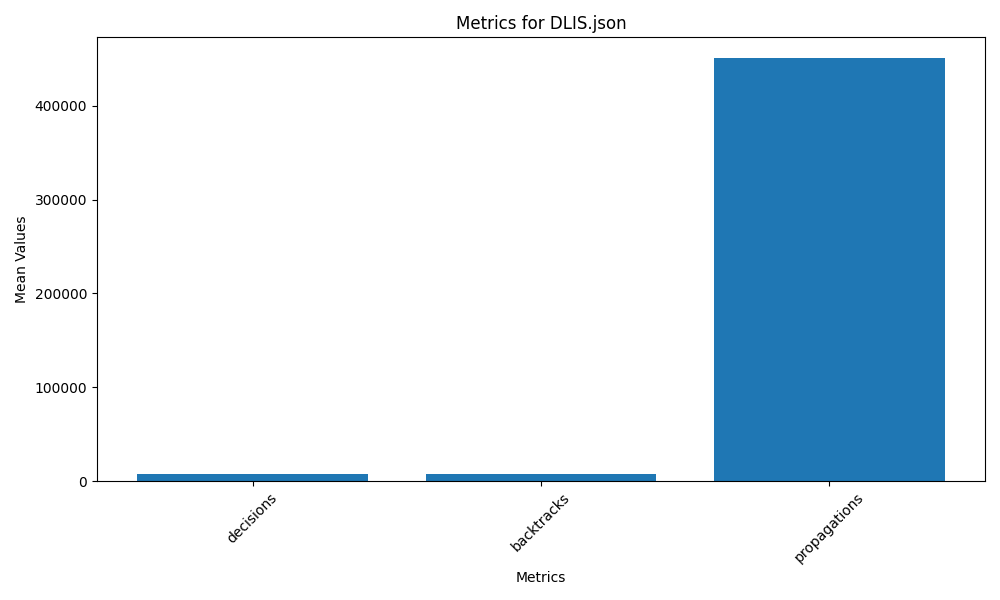
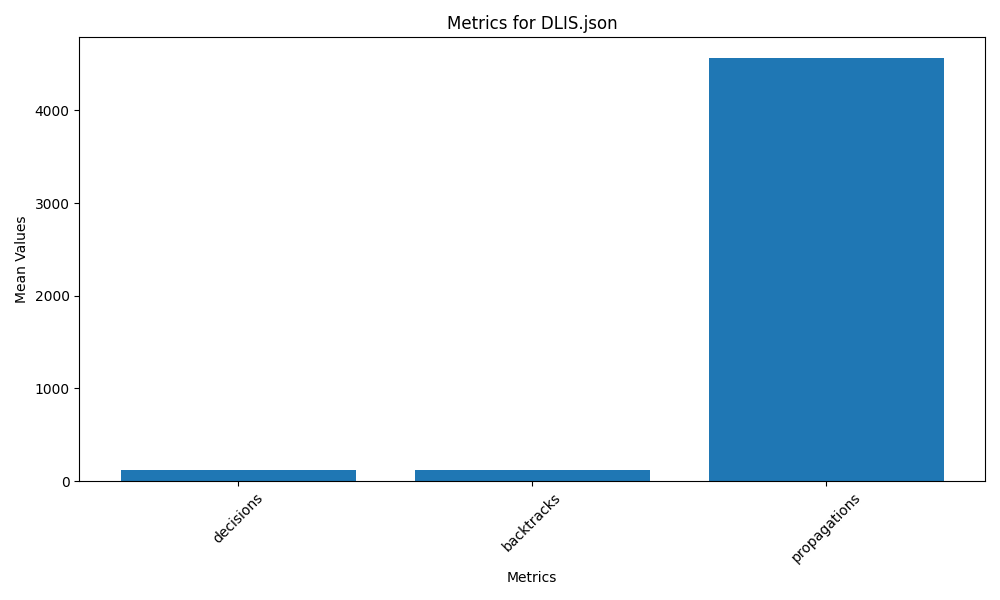
fixed plottign script not aggregating multiple files

diff --git a/results/plot_metrics.py b/results/plot_metrics.py
@@ -33,9 +33,7 @@ def aggregate_metrics(results: List[Dict[str, Any]]) -> Dict[str, float]:
     aggregated = {
         "decisions": [],
         "backtracks": [],
-        # "conflicts": [],
-        "propagations": [],
-        # "unit_clauses_resolved": []
+        "propagations": []
     }
 
     for result in results:
@@ -45,6 +43,23 @@ def aggregate_metrics(results: List[Dict[str, Any]]) -> Dict[str, float]:
 
     mean_metrics = {key: np.mean(values) for key, values in aggregated.items()}
     return mean_metrics
+
+
+def merge_aggregated_metrics(metrics1: Dict[str, float], metrics2: Dict[str, float]) -> Dict[str, float]:
+    """
+    Merge and average two aggregated metrics dictionaries.
+
+    Args:
+        metrics1 (Dict[str, float]): First aggregated metrics dictionary.
+        metrics2 (Dict[str, float]): Second aggregated metrics dictionary.
+
+    Returns:
+        Dict[str, float]: Merged metrics containing averaged values.
+    """
+    merged = {}
+    for key in metrics1.keys():
+        merged[key] = (metrics1[key] + metrics2[key]) / 2
+    return merged
 
 
 def plot_metrics(metrics: Dict[str, float], title: str, output_dir: str) -> None:
@@ -94,21 +109,27 @@ def main() -> None:
     results1 = load_results(args.file1)
     metrics1 = aggregate_metrics(results1)
 
-    print(f"Metrics for {os.path.basename(args.file1)}:")
-    for key, value in metrics1.items():
-        print(f"{key}: {value:.2f}")
-
-    plot_metrics(metrics1, f"Metrics for {os.path.basename(args.file1)}", "plots")
-
     if args.file2:
         results2 = load_results(args.file2)
         metrics2 = aggregate_metrics(results2)
 
-        print(f"\nMetrics for {os.path.basename(args.file2)}:")
-        for key, value in metrics2.items():
+        merged_metrics = merge_aggregated_metrics(metrics1, metrics2)
+
+        print(f"Aggregated Metrics for {os.path.basename(args.file1)} and {os.path.basename(args.file2)}:")
+        for key, value in merged_metrics.items():
             print(f"{key}: {value:.2f}")
 
-        plot_metrics(metrics2, f"Metrics for {os.path.basename(args.file2)}", "plots")
+        plot_metrics(
+            merged_metrics,
+            f"Aggregated Metrics for {os.path.basename(args.file1)} and {os.path.basename(args.file2)}",
+            "plots"
+        )
+    else:
+        print(f"Metrics for {os.path.basename(args.file1)}:")
+        for key, value in metrics1.items():
+            print(f"{key}: {value:.2f}")
+
+        plot_metrics(metrics1, f"Metrics for {os.path.basename(args.file1)}", "plots")
 
 
 if __name__ == "__main__":
